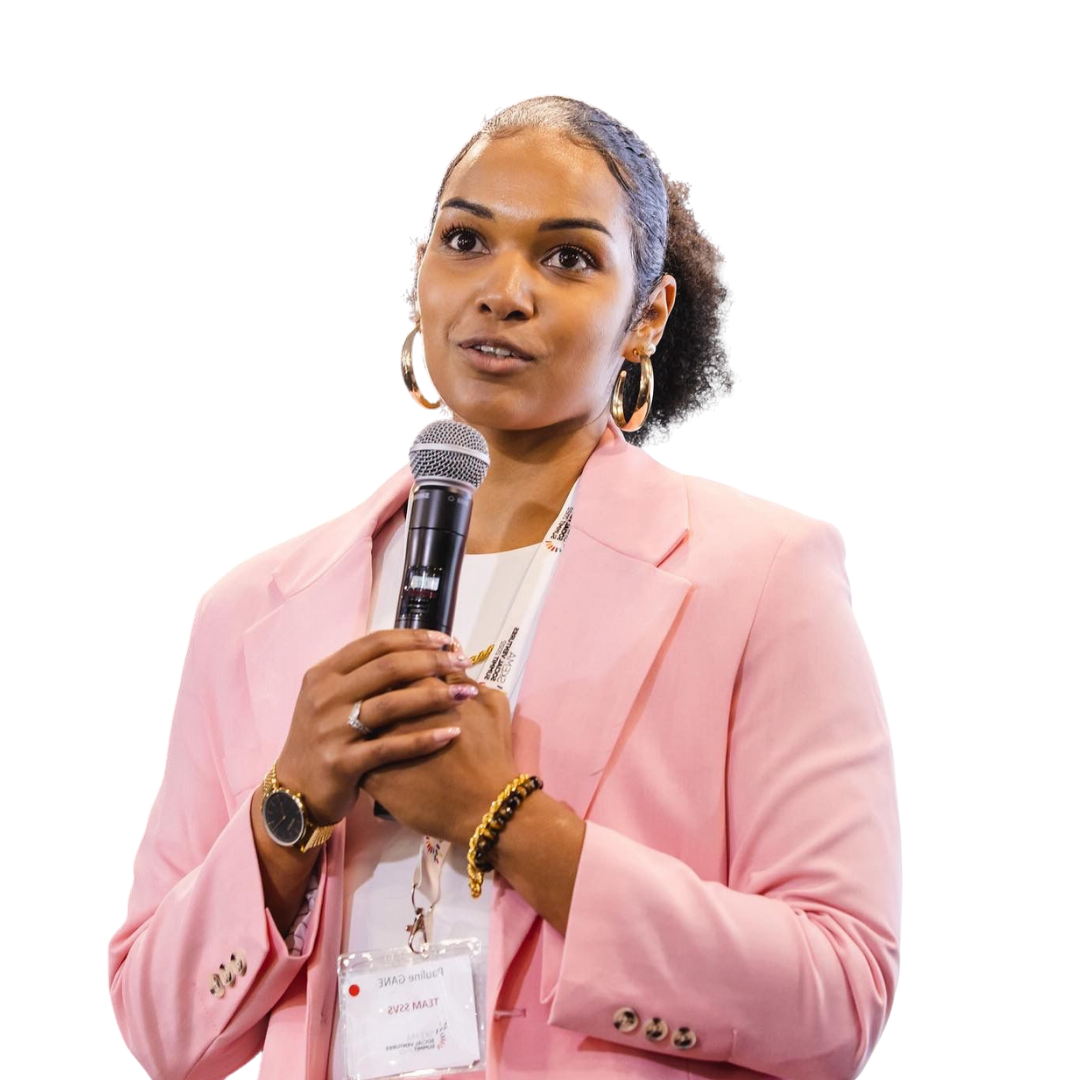
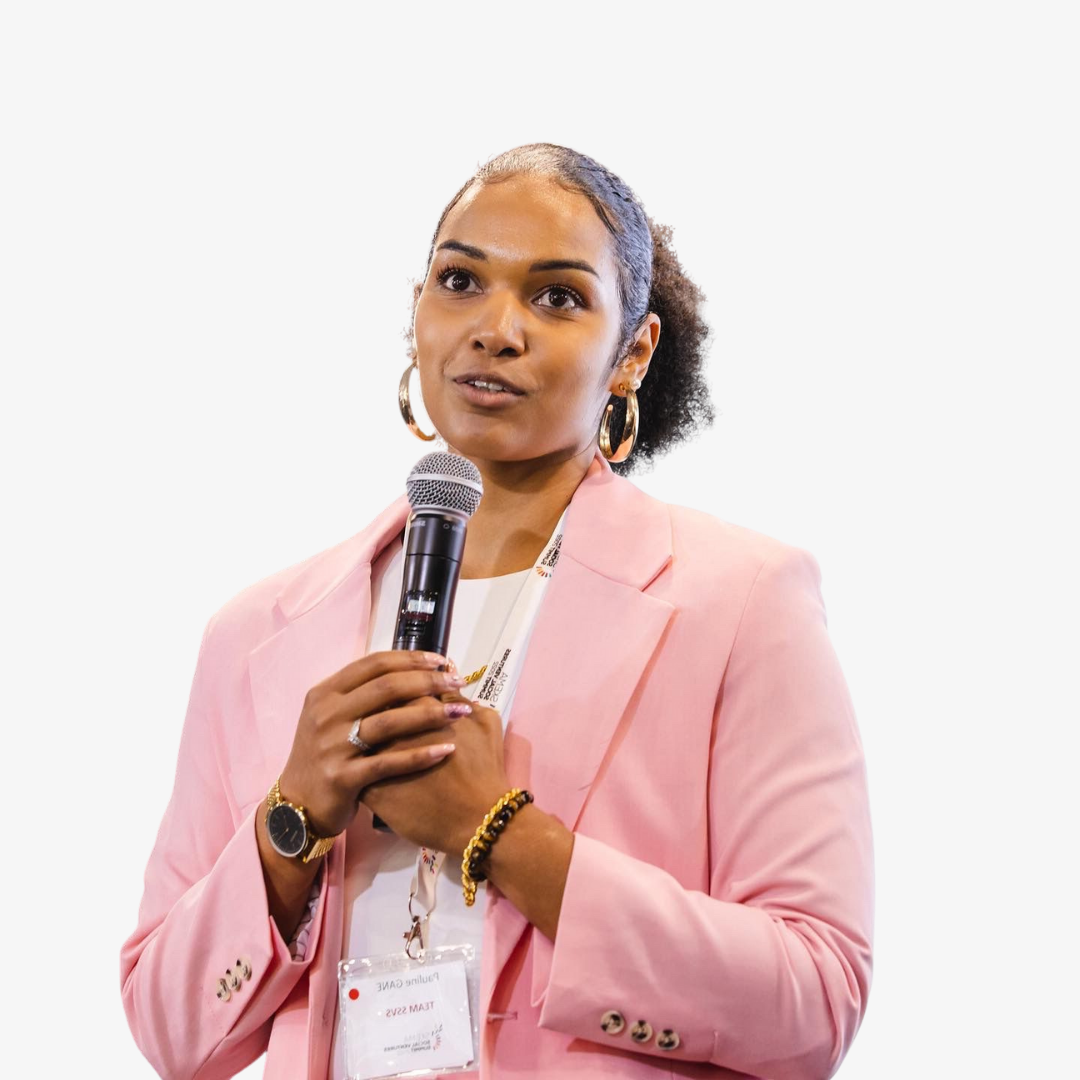
upd hmpage

Changed region(s): [[0.0917, 0.0917, 0.8556, 1.0], [0.5806, 0.6111, 0.6111, 0.6722], [0.275, 0.9778, 0.3056, 1.0]]

diff --git a/frontend/src/views/home/home.js b/frontend/src/views/home/home.js
@@ -260,8 +260,7 @@ const DivWrapper = styled.div`
   .banner {
     display: flex;
     align-items: center;
-    width: 98vw;
-    max-width: 98vw;
+    width: 97vw;
     margin: 0 auto;
     height: 100vh;
 
@@ -285,6 +284,7 @@ const DivWrapper = styled.div`
       font-size: 4.7rem;
       text-align: center;
       margin-top: 25rem;
+      width: 50%;
     }
     //PURPLE SPANS
     .bg-purple {
@@ -309,11 +309,14 @@ const DivWrapper = styled.div`
       text-align: end;
     }
     img {
-      width: 46vw;
+      width: 50%;
+      max-width: 100%;
+      max-height: 80vh;
+      /* width: 126.5vw; */
       height: auto;
-      margin-top: 9%;
-
-      /* height: 82vh; */
+      margin-top: 11.3%;
+      object-fit:cover;
+      display: block;
     }
   }
   /* ----------- PROMISE --------- */
@@ -336,6 +339,7 @@ const DivWrapper = styled.div`
       display: flex;
       width: 85vw;
       align-items: center;
+      margin: auto;
     }
     /* PROMISE TEXT */
     .texte {
@@ -345,6 +349,12 @@ const DivWrapper = styled.div`
       font-size: 2.8rem;
       margin: auto;
       color: white;
+      text-align: justify;
+      margin-right: 6%;
+    }
+
+    iframe{
+      width: 50%;
     }
   }
 
@@ -561,7 +571,8 @@ const DivWrapper = styled.div`
       margin: auto;
 
       img {
-        width: 28%;
+        /* width: 28%; */
+        width: 40%;
         margin-right: 2%;
       }
 
@@ -571,6 +582,7 @@ const DivWrapper = styled.div`
         text-align: justify;
         width: 50%;
         line-height: 190%;
+        margin-top: 6rem;
 
         .bigger-yellow {
           font-size: 2vw;
